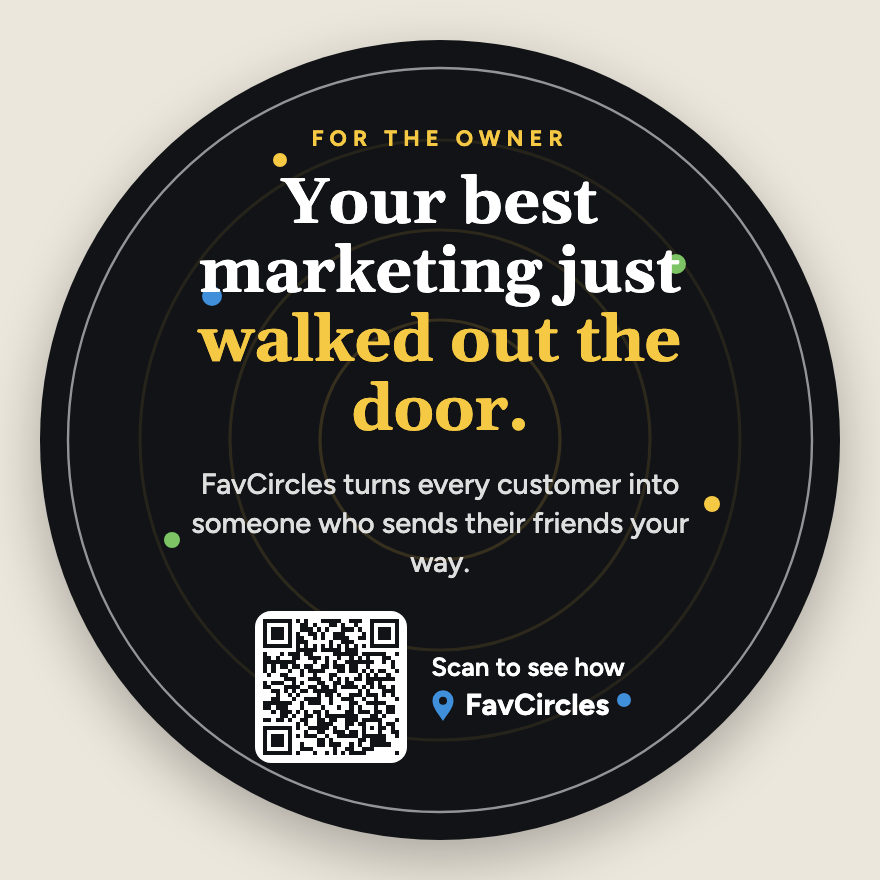
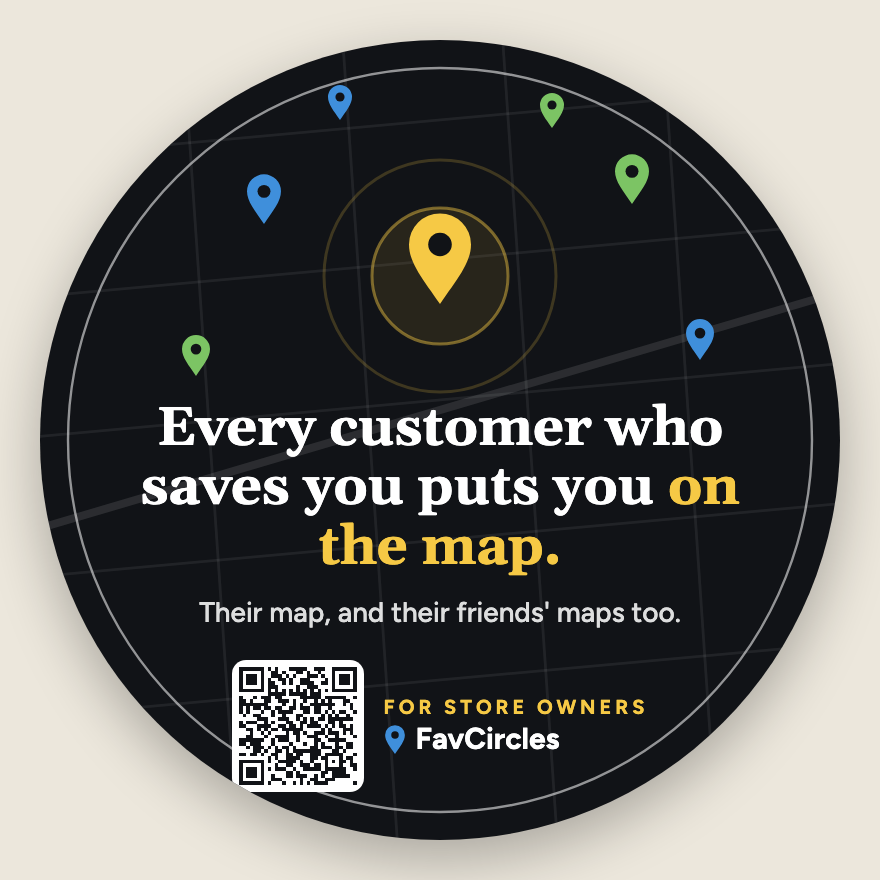
Store-owner coaster v3: saving puts the store on customers' and friends' maps; back = reach everyone who saved you (specials, announcements, loyalty)

diff --git a/Marketing/store-owner-leave-behinds/source/1-coaster-front.html b/Marketing/store-owner-leave-behinds/source/1-coaster-front.html
@@ -1,4 +1,4 @@
-<!doctype html><html><head><meta charset="utf-8"><title>Coaster front</title>
+<!doctype html><html><head><meta charset="utf-8">
 <link href="https://fonts.googleapis.com/css2?family=Gelasio:wght@700&amp;family=Figtree:wght@500;600;700&amp;display=swap" rel="stylesheet">
 <style>
 body{margin:0}
@@ -7,33 +7,35 @@ a{color:#F6C945}a:hover{color:#fff}
 </head><body>
 
 <div style="width: 440px; height: 440px; background: #ECE7DC; display: flex; align-items: center; justify-content: center; font-family: 'Figtree', 'Avenir Next', sans-serif">
-<div style="width: 400px; height: 400px; border-radius: 50%; background: #111317; position: relative; overflow: hidden; display: flex; flex-direction: column; align-items: center; justify-content: center; gap: 9px; box-shadow: 0 10px 28px rgba(0,0,0,0.28)">
+<div style="width: 400px; height: 400px; border-radius: 50%; background: #111317; position: relative; overflow: hidden; box-shadow: 0 10px 28px rgba(0,0,0,0.28)">
 <svg width="400" height="400" viewBox="0 0 400 400" style="position: absolute; inset: 0" aria-hidden="true">
-<g fill="none" stroke-width="1.6">
-<circle cx="200" cy="200" r="60" stroke="#F6C945" stroke-opacity="0.16"></circle>
-<circle cx="200" cy="200" r="105" stroke="#F6C945" stroke-opacity="0.12"></circle>
-<circle cx="200" cy="200" r="150" stroke="#F6C945" stroke-opacity="0.09"></circle>
+<g stroke="#ffffff" stroke-opacity="0.07" stroke-width="1.4">
+<line x1="-20" y1="60" x2="420" y2="20"></line><line x1="-20" y1="130" x2="420" y2="90"></line><line x1="-20" y1="200" x2="420" y2="160"></line><line x1="-20" y1="270" x2="420" y2="230"></line><line x1="-20" y1="340" x2="420" y2="300"></line>
+<line x1="70" y1="-20" x2="100" y2="420"></line><line x1="150" y1="-20" x2="180" y2="420"></line><line x1="230" y1="-20" x2="260" y2="420"></line><line x1="310" y1="-20" x2="340" y2="420"></line>
 </g>
-<g>
-<circle cx="86" cy="128" r="5" fill="#3F8FDB"></circle>
-<circle cx="318" cy="112" r="5" fill="#7CC464"></circle>
-<circle cx="336" cy="232" r="4" fill="#F6C945"></circle>
-<circle cx="66" cy="250" r="4" fill="#7CC464"></circle>
-<circle cx="120" cy="60" r="3.5" fill="#F6C945"></circle>
-<circle cx="292" cy="330" r="3.5" fill="#3F8FDB"></circle>
-</g>
+<g stroke="#ffffff" stroke-opacity="0.11" stroke-width="4"><line x1="-20" y1="250" x2="420" y2="120"></line></g>
+<circle cx="200" cy="118" r="34" fill="#F6C945" fill-opacity="0.1" stroke="#F6C945" stroke-opacity="0.45" stroke-width="1.5"></circle>
+<circle cx="200" cy="118" r="58" fill="none" stroke="#F6C945" stroke-opacity="0.2" stroke-width="1.5"></circle>
+<g transform="translate(200,132) scale(0.62)"><path d="M0 0C-13-19-25-33-25-48A25 25 0 1 1 25-48C25-33 13-19 0 0Z" fill="#F6C945"></path><circle cy="-48" r="9.5" fill="#111317"></circle></g>
+<g transform="translate(112,92) scale(0.34)"><path d="M0 0C-13-19-25-33-25-48A25 25 0 1 1 25-48C25-33 13-19 0 0Z" fill="#3F8FDB"></path><circle cy="-48" r="9.5" fill="#111317"></circle></g>
+<g transform="translate(296,82) scale(0.34)"><path d="M0 0C-13-19-25-33-25-48A25 25 0 1 1 25-48C25-33 13-19 0 0Z" fill="#7CC464"></path><circle cy="-48" r="9.5" fill="#111317"></circle></g>
+<g transform="translate(78,168) scale(0.28)"><path d="M0 0C-13-19-25-33-25-48A25 25 0 1 1 25-48C25-33 13-19 0 0Z" fill="#7CC464"></path><circle cy="-48" r="9.5" fill="#111317"></circle></g>
+<g transform="translate(330,160) scale(0.28)"><path d="M0 0C-13-19-25-33-25-48A25 25 0 1 1 25-48C25-33 13-19 0 0Z" fill="#3F8FDB"></path><circle cy="-48" r="9.5" fill="#111317"></circle></g>
+<g transform="translate(150,40) scale(0.24)"><path d="M0 0C-13-19-25-33-25-48A25 25 0 1 1 25-48C25-33 13-19 0 0Z" fill="#3F8FDB"></path><circle cy="-48" r="9.5" fill="#111317"></circle></g>
+<g transform="translate(256,44) scale(0.24)"><path d="M0 0C-13-19-25-33-25-48A25 25 0 1 1 25-48C25-33 13-19 0 0Z" fill="#7CC464"></path><circle cy="-48" r="9.5" fill="#111317"></circle></g>
 <circle cx="200" cy="200" r="186" fill="none" stroke="#ffffff" stroke-opacity="0.55" stroke-width="1.2"></circle>
 </svg>
-<div style="position: relative; font-size: 11px; letter-spacing: 3px; font-weight: 700; color: #F6C945; margin-top: 4px">FOR THE OWNER</div>
-<div style="position: relative; font-family: 'Gelasio', Georgia, serif; font-weight: 700; color: #ffffff; font-size: 32px; line-height: 1.08; text-align: center; max-width: 300px">Your best marketing just <span style="color: #F6C945">walked out the door.</span></div>
-<div style="position: relative; font-size: 14.5px; color: #ffffff; opacity: 0.86; text-align: center; max-width: 270px; line-height: 1.35">FavCircles turns every customer into someone who sends their friends your way.</div>
-<div style="position: relative; display: flex; align-items: center; gap: 12px; margin-top: 6px">
-<img src="qr-store-owners.svg" alt="QR code to the FavCircles Store Owners page" style="width: 76px; height: 76px; border-radius: 8px; display: block">
-<div style="display: flex; flex-direction: column; gap: 2px">
-<div style="font-size: 13px; color: #ffffff; font-weight: 600">Scan to see how</div>
+<div style="position: absolute; left: 0; right: 0; top: 180px; display: flex; flex-direction: column; align-items: center; gap: 8px">
+<div style="font-family: 'Gelasio', Georgia, serif; font-weight: 700; color: #ffffff; font-size: 27px; line-height: 1.1; text-align: center; max-width: 310px">Every customer who saves you puts you <span style="color: #F6C945">on the map.</span></div>
+<div style="font-size: 14px; color: #ffffff; opacity: 0.86; text-align: center; max-width: 270px; line-height: 1.35">Their map, and their friends' maps too.</div>
+<div style="display: flex; align-items: center; gap: 10px; margin-top: 6px">
+<img src="qr-store-owners.svg" alt="QR code to the FavCircles Store Owners page" style="width: 66px; height: 66px; border-radius: 7px; display: block">
+<div style="display: flex; flex-direction: column; gap: 1px">
+<div style="font-size: 10px; letter-spacing: 2px; color: #F6C945; font-weight: 700">FOR STORE OWNERS</div>
 <div style="display: flex; align-items: center; gap: 5px">
-<svg width="12" height="16" viewBox="-26 -76 52 76" aria-hidden="true"><path d="M0 0C-13-19-25-33-25-48A25 25 0 1 1 25-48C25-33 13-19 0 0Z" fill="#3F8FDB"></path><circle cy="-48" r="9.5" fill="#111317"></circle></svg>
+<svg width="11" height="15" viewBox="-26 -76 52 76" aria-hidden="true"><path d="M0 0C-13-19-25-33-25-48A25 25 0 1 1 25-48C25-33 13-19 0 0Z" fill="#3F8FDB"></path><circle cy="-48" r="9.5" fill="#111317"></circle></svg>
 <span style="font-size: 15px; font-weight: 700; color: #ffffff">FavCircles</span>
+</div>
 </div>
 </div>
 </div>

diff --git a/Marketing/store-owner-leave-behinds/source/1-coaster-back.html b/Marketing/store-owner-leave-behinds/source/1-coaster-back.html
@@ -1,5 +1,5 @@
 <!doctype html><html><head><meta charset="utf-8">
-<link href="https://fonts.googleapis.com/css2?family=Gelasio:wght@700&amp;family=Figtree:wght@500;600;700&amp;display=swap" rel="stylesheet">
+<link href="https://fonts.googleapis.com/css2?family=Gelasio:wght@700&amp;family=Figtree:wght@500;600;700;800&amp;display=swap" rel="stylesheet">
 <style>
 body{margin:0}
 a{color:#1A365D}a:hover{color:#111317}
@@ -7,26 +7,34 @@ a{color:#1A365D}a:hover{color:#111317}
 </head><body>
 
 <div style="width: 440px; height: 440px; background: #ECE7DC; display: flex; align-items: center; justify-content: center; font-family: 'Figtree', 'Avenir Next', sans-serif">
-<div style="width: 400px; height: 400px; border-radius: 50%; background: #FFFBF0; position: relative; display: flex; flex-direction: column; align-items: center; justify-content: center; gap: 10px; box-shadow: 0 10px 28px rgba(0,0,0,0.22)">
-<div style="font-family: 'Gelasio', Georgia, serif; font-weight: 700; font-size: 20px; color: #1A365D; text-align: center; line-height: 1.12; margin-top: 8px">Not a mailing list.<br>A word-of-mouth engine.</div>
-<div style="display: flex; flex-direction: column; gap: 8px; width: 270px">
-<div style="display: flex; gap: 9px; align-items: flex-start">
-<div style="flex: 0 0 8px; height: 8px; border-radius: 50%; background: #3F8FDB; margin-top: 5px"></div>
-<div style="font-size: 12.5px; color: #111317; line-height: 1.3"><b>They save you.</b> You show up in the circles their friends browse.</div>
+<div style="width: 400px; height: 400px; border-radius: 50%; background: #FFFBF0; position: relative; display: flex; flex-direction: column; align-items: center; justify-content: center; gap: 12px; box-shadow: 0 10px 28px rgba(0,0,0,0.22)">
+<div style="text-align: center; margin-top: 6px">
+<div style="font-family: 'Gelasio', Georgia, serif; font-weight: 700; font-size: 21px; color: #1A365D; line-height: 1.1">Then you can reach them.</div>
+<div style="font-size: 12.5px; color: #4A5563; margin-top: 4px">Everyone who saved you, any time you want.</div>
 </div>
-<div style="display: flex; gap: 9px; align-items: flex-start">
-<div style="flex: 0 0 8px; height: 8px; border-radius: 50%; background: #E0A800; margin-top: 5px"></div>
-<div style="font-size: 12.5px; color: #111317; line-height: 1.3"><b>They bring a friend.</b> Both earn the points you choose.</div>
+<div style="display: flex; flex-direction: column; gap: 9px; width: 266px">
+<div style="display: flex; gap: 10px; align-items: flex-start">
+<div style="flex: 0 0 28px; height: 28px; border-radius: 8px; background: #F6C945; display: flex; align-items: center; justify-content: center">
+<svg width="16" height="16" viewBox="0 0 24 24" fill="none" stroke="#111317" stroke-width="2.2" stroke-linecap="round" stroke-linejoin="round" aria-hidden="true"><path d="M20.6 13.4 13.4 20.6a2 2 0 0 1-2.8 0L3 13V3h10l7.6 7.6a2 2 0 0 1 0 2.8z"></path><circle cx="7.5" cy="7.5" r="1.2"></circle></svg>
 </div>
-<div style="display: flex; gap: 9px; align-items: flex-start">
-<div style="flex: 0 0 8px; height: 8px; border-radius: 50%; background: #4E9A3A; margin-top: 5px"></div>
-<div style="font-size: 12.5px; color: #111317; line-height: 1.3"><b>They come back.</b> Your specials and birthday nudges go out on their own.</div>
+<div style="font-size: 13px; color: #111317; line-height: 1.3"><b>Specials.</b> Fill a slow afternoon with one post.</div>
+</div>
+<div style="display: flex; gap: 10px; align-items: flex-start">
+<div style="flex: 0 0 28px; height: 28px; border-radius: 8px; background: #3F8FDB; display: flex; align-items: center; justify-content: center">
+<svg width="16" height="16" viewBox="0 0 24 24" fill="none" stroke="#ffffff" stroke-width="2.2" stroke-linecap="round" stroke-linejoin="round" aria-hidden="true"><path d="M3 11v2a1 1 0 0 0 1 1h3l5 4V6L7 10H4a1 1 0 0 0-1 1z"></path><path d="M16 9a4 4 0 0 1 0 6"></path></svg>
+</div>
+<div style="font-size: 13px; color: #111317; line-height: 1.3"><b>Announcements.</b> New menu, new hours, big news, straight to their phones.</div>
+</div>
+<div style="display: flex; gap: 10px; align-items: flex-start">
+<div style="flex: 0 0 28px; height: 28px; border-radius: 8px; background: #4E9A3A; display: flex; align-items: center; justify-content: center">
+<svg width="16" height="16" viewBox="0 0 24 24" fill="none" stroke="#ffffff" stroke-width="2.2" stroke-linecap="round" stroke-linejoin="round" aria-hidden="true"><path d="M12 3l2.6 5.6 6 .7-4.5 4.1 1.2 6L12 16.5 6.7 19.4l1.2-6L3.4 9.3l6-.7z"></path></svg>
+</div>
+<div style="font-size: 13px; color: #111317; line-height: 1.3"><b>Loyalty rewards.</b> Points you choose, a card in Apple Wallet, a reason to come back.</div>
 </div>
 </div>
-<div style="font-size: 11.5px; color: #4A5563; font-style: italic; text-align: center; max-width: 250px; line-height: 1.3">A mailing list talks to your customers. FavCircles gets them talking about you.</div>
-<div style="display: flex; align-items: center; gap: 8px">
-<img src="qr-store-owners.svg" alt="QR code to the FavCircles Store Owners page" style="width: 58px; height: 58px; display: block; border-radius: 6px">
-<div style="font-size: 12px; color: #1A365D; font-weight: 700">favcircles.com</div>
+<div style="display: flex; align-items: center; gap: 10px; margin-top: 2px">
+<img src="qr-store-owners.svg" alt="QR code to the FavCircles Store Owners page" style="width: 62px; height: 62px; display: block; border-radius: 6px">
+<div style="font-size: 12px; color: #1A365D; line-height: 1.3"><b>Claim your store</b><br>favcircles.com</div>
 </div>
 </div>
 </div>
